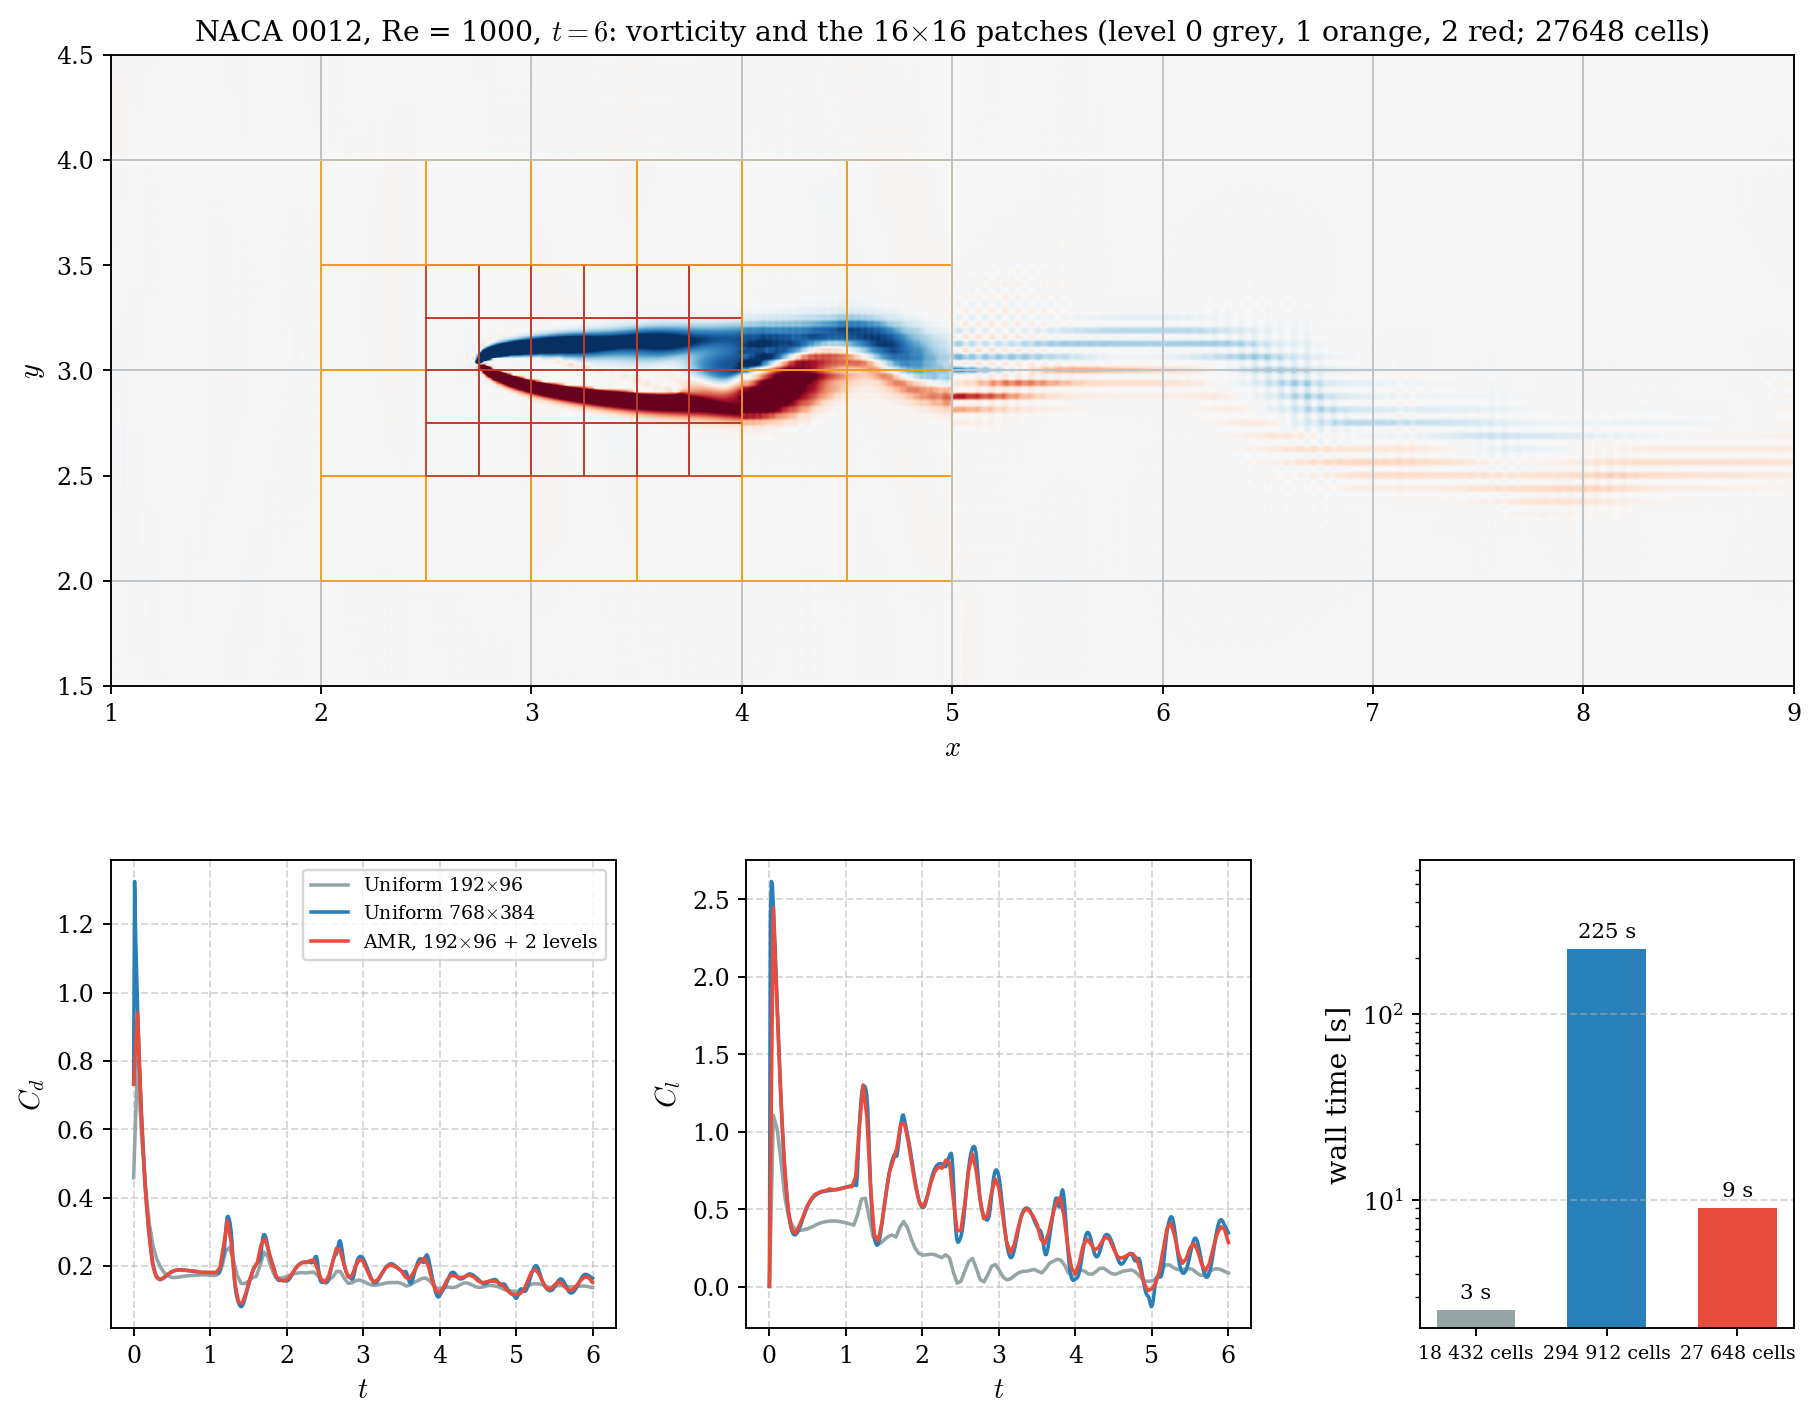
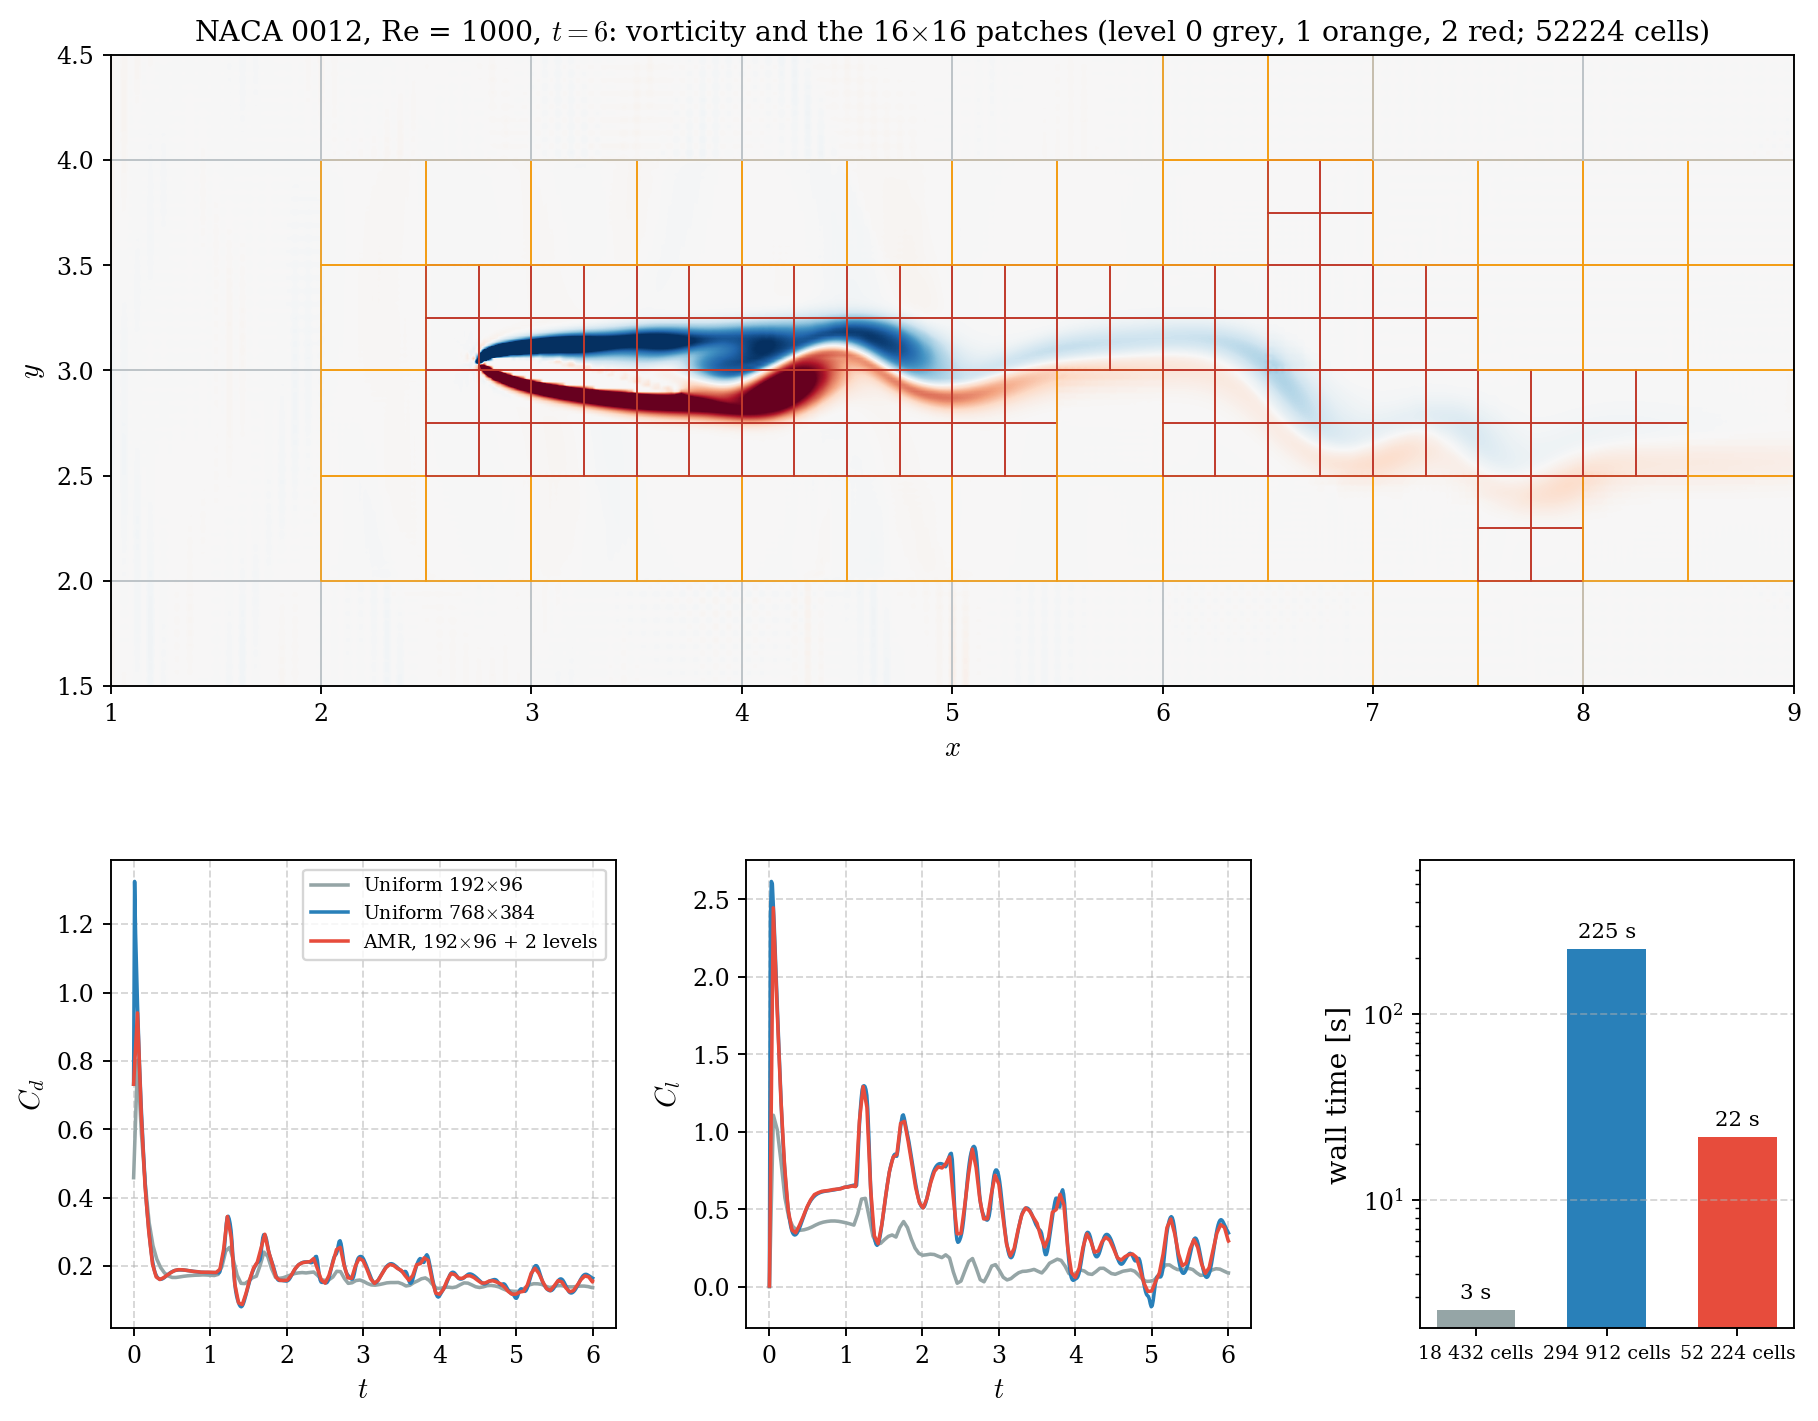
AMR: speed-based refinement indicator, so the airfoil wake is refined
Problem: the Lohner indicator looked at the density only. At Ma = 0.2 the density
hardly varies in the wake, so the refined patches followed the airfoil but not the
wake (visible in the airfoil_amr figure).

Solution: new parameter amr_indicator = density (default, unchanged results) |
velocity | density+velocity, the Lohner ratio of the density and / or the speed
(the larger of the enabled ones). The IBM Airfoil AMR case uses density+velocity.

Airfoil study (t = 6, rms difference of Cd(t), Cl(t) from the 768 x 384 run):
  AMR with the density indicator:           27 648 cells   9.1 s  Cd 0.009  Cl 0.048
  AMR with density+velocity (wake refined): 52 224 cells  22 s    Cd 0.007  Cl 0.036
  uniform 768 x 384: 294 912 cells, 225 s.
The airfoil page now ends with the AMR section followed by "Using your own airfoil",
the figure and table are regenerated, and a unit test checks that only the speed
indicator sees a shear layer of uniform density.

diff --git a/cpp/src/Params.cpp b/cpp/src/Params.cpp
@@ -116,7 +116,7 @@ Params baseline_defaults() {
         {"hot_start_src_nx", "0"}, {"hot_start_src_ny", "0"},
         {"use_amr", "false"}, {"amr_max_level", "2"}, {"amr_patch_nx", "8"}, {"amr_patch_ny", "8"},
         {"amr_refine_threshold", "0.3"}, {"amr_derefine_threshold", "0.1"},
-        {"amr_refine_every", "10"}, {"amr_init_levels", "0"}, {"amr_buffer_layers", "1"}, {"amr_refine_ibm", "true"},
+        {"amr_refine_every", "10"}, {"amr_init_levels", "0"}, {"amr_buffer_layers", "1"}, {"amr_refine_ibm", "true"}, {"amr_indicator", "density"},
         {"output_root", FV_PROJECT_ROOT "/results"}, {"dump_state", ""}, {"max_steps", "0"},
         {"monitor_interval", "0"}, {"vtk_format", "binary"},
     };
@@ -192,6 +192,7 @@ SimParams SimParams::from(const Params& p) {
     s.amr_init_levels   = p.integer("amr_init_levels", 0);
     s.amr_buffer_layers = p.integer("amr_buffer_layers", 1);
     s.amr_refine_ibm    = p.flag("amr_refine_ibm");
+    s.amr_indicator     = lower(p.str("amr_indicator", "density"));
     s.output_root    = p.str("output_root", "results");
     s.dump_state     = p.str("dump_state");
     s.max_steps      = p.integer("max_steps", 0);
@@ -206,6 +207,8 @@ SimParams SimParams::from(const Params& p) {
                                     "patches tile the mesh): nx = " + std::to_string(s.nx) + ", ny = " +
                                     std::to_string(s.ny) + ", patch " + std::to_string(s.amr_patch_nx) + " x " +
                                     std::to_string(s.amr_patch_ny));
+    if (s.amr_indicator != "density" && s.amr_indicator != "velocity" && s.amr_indicator != "density+velocity")
+        throw std::invalid_argument("amr_indicator must be density, velocity or density+velocity (got '" + s.amr_indicator + "')");
     if (s.use_amr) {
         const std::string ts = lower(s.time_scheme);
         if (ts == "bdf2 dual time" || ts == "bdf2")

diff --git a/cpp/src/AMR.cpp b/cpp/src/AMR.cpp
@@ -212,7 +212,10 @@ std::vector<AMRPatch*> AMRTree::neighbour_leaves(const AMRPatch* p, Face face) c
 // Lohner second-derivative error indicator
 // ---------------------------------------------------------------------------
 
-double AMRErrorIndicator::indicator(const AMRPatch& patch) const {
+namespace {
+// Lohner ratio of the scalar `value(cell)` over a patch
+template <class F>
+double lohner_eta(const AMRPatch& patch, F value) {
     const int nx = patch.nx(), ny = patch.ny();
     const int PW = nx + 2;
     // Anti-symmetric (odd) reflection: ghost = 2*edge - interior, so a linear
@@ -221,7 +224,7 @@ double AMRErrorIndicator::indicator(const AMRPatch& patch) const {
     double rho_max = 0.0;
     for (int j = 0; j < ny; ++j)
         for (int i = 0; i < nx; ++i) {
-            const double r = patch.U[j * nx + i][0];
+            const double r = value(patch.U[j * nx + i]);
             rp[(j + 1) * PW + i + 1] = r;
             rho_max = std::max(rho_max, std::abs(r));
         }
@@ -245,6 +248,17 @@ double AMRErrorIndicator::indicator(const AMRPatch& patch) const {
             const double f1y = std::abs(R(j + 1, i) - c) + std::abs(c - R(j - 1, i));
             eta = std::max(eta, std::sqrt(d2x * d2x + d2y * d2y) / (f1x + f1y + floor));
         }
+    return eta;
+}
+}  // namespace
+
+double AMRErrorIndicator::indicator(const AMRPatch& patch) const {
+    double eta = 0.0;
+    if (use_density) eta = lohner_eta(patch, [](const State& c) { return c[0]; });
+    if (use_speed)
+        eta = std::max(eta, lohner_eta(patch, [](const State& c) {
+            return std::sqrt(c[1] * c[1] + c[2] * c[2] + c[4] * c[4]) / c[0];
+        }));
     return eta;
 }
 

diff --git a/cpp/include/fv/AMR.hpp b/cpp/include/fv/AMR.hpp
@@ -104,13 +104,15 @@ public:
     AMRErrorIndicator(double refine_threshold = 0.3, double derefine_threshold = 0.1, int buffer_layers = 1)
         : refine_threshold(refine_threshold), derefine_threshold(derefine_threshold), buffer_layers(buffer_layers) {}
 
-    // eta = max over cells of |second difference| / (|first differences| + 0.01 max|rho|), in [0, 1].
+    // eta = max over cells of |second difference| / (|first differences| + 0.01 max|f|), in [0, 1], for
+    // f = density and / or the speed |u| (the largest of the enabled ones).
     double indicator(const AMRPatch& patch) const;
     // Leaves to refine (flagged + buffer, sorted by id) and parents to derefine.
     void   mark(AMRTree& tree, std::vector<AMRPatch*>& to_refine, std::vector<AMRPatch*>& to_derefine) const;
 
     double refine_threshold, derefine_threshold;   // eta thresholds
     int    buffer_layers;                          // halo rings around flagged patches
+    bool   use_density = true, use_speed = false;  // fields the ratio is taken of
     // Optional: leaves for which this is true are refined to max_level whatever eta says, and their
     // parents are never derefined (an immersed body kept at the finest level).
     std::function<bool(const AMRPatch&)> force_refine;

diff --git a/cpp/tests/test_main.cpp b/cpp/tests/test_main.cpp
@@ -558,6 +558,15 @@ TEST(amr_error_indicator) {
     for (int j = 0; j < 8; ++j)
         for (int i = 0; i < 8; ++i) tree.root->U[j * 8 + i][0] = i < 4 ? 1.0 : 0.125;
     CHECK(ind.indicator(*tree.root) > 0.3);     // discontinuity
+    // A shear layer: uniform density, speed jump. Only the speed indicator sees it.
+    const EOS eos = EOS::ideal(1.4);
+    for (int j = 0; j < 8; ++j)
+        for (int i = 0; i < 8; ++i) tree.root->U[j * 8 + i] = eos.prim_to_cons({1.0, i < 4 ? 0.0 : 1.0, 0.0, 1.0});
+    AMRErrorIndicator speed;
+    speed.use_density = false;
+    speed.use_speed = true;
+    CHECK(ind.indicator(*tree.root) < 1e-12);
+    CHECK(speed.indicator(*tree.root) > 0.3);
 }
 
 namespace {

diff --git a/cpp/src/Simulation.cpp b/cpp/src/Simulation.cpp
@@ -339,6 +339,8 @@ void Simulation::setup(const SimParams& params, bool verbose) {
                                              p.nx / p.amr_patch_nx, p.ny / p.amr_patch_ny);
         amr_indicator = std::make_unique<AMRErrorIndicator>(p.amr_refine_threshold, p.amr_derefine_threshold,
                                                             p.amr_buffer_layers);
+        amr_indicator->use_density = p.amr_indicator != "velocity";
+        amr_indicator->use_speed   = p.amr_indicator != "density";
         if (p.use_ibm && p.amr_refine_ibm)
             amr_indicator->force_refine = [this](const AMRPatch& patch) { return patch_touches_body(patch); };
         if (verbose)

diff --git a/cpp/src/CaseFile.cpp b/cpp/src/CaseFile.cpp
@@ -44,7 +44,7 @@ const std::vector<std::pair<std::string, std::vector<std::string>>>& section_tab
                  "ibm_aoa"}},
         {"hot_start", {"use_hot_start", "hot_start_file", "hot_start_src_nx", "hot_start_src_ny"}},
         {"amr", {"use_amr", "amr_max_level", "amr_patch_nx", "amr_patch_ny", "amr_refine_threshold",
-                 "amr_derefine_threshold", "amr_refine_every", "amr_init_levels", "amr_buffer_layers", "amr_refine_ibm"}},
+                 "amr_derefine_threshold", "amr_refine_every", "amr_init_levels", "amr_buffer_layers", "amr_refine_ibm", "amr_indicator"}},
     };
     return t;
 }

diff --git a/cpp/include/fv/Params.hpp b/cpp/include/fv/Params.hpp
@@ -83,6 +83,7 @@ struct SimParams {
     double amr_refine_threshold, amr_derefine_threshold;
     int    amr_refine_every, amr_init_levels, amr_buffer_layers;
     bool   amr_refine_ibm = true;   // keep the immersed body at the finest level
+    std::string amr_indicator = "density";   // fields of the refinement indicator: density, velocity, density+velocity
 
     // C++-only extras
     std::string output_root;   // parent of the per-case results folder

diff --git a/docs/source/cases/airfoil.md b/docs/source/cases/airfoil.md
@@ -18,12 +18,37 @@ build\release\fenice.exe --case "IBM Airfoil" --set "ibm_shape=NACA 4412" --set 
 python validation\ibm_loads.py airfoil                        # loads figure + mean coefficients
 ```
 
+## Loads
+
+With IBM on, every `monitor_interval` steps the monitor records $F_x$, $F_y$ and the
+coefficients $C_d$, $C_l$ and $C_m$ (about the quarter chord, nose-up positive), on the chord
+and $q = \tfrac12\rho_{\rm in}u_{\rm in}^2$. They are computed inside the solver from the
+momentum flux into the body, so they include pressure and friction; see
+[Loads on the body]({{root}}modules/Physics.html#loads-on-the-body).
+
+## Default parameters
+
+{{defaults:IBM Airfoil}}
+
+## Results
+
+<figure>
+<img src="{{root}}img/airfoil_loads.png" style="width:100%">
+<figcaption>NACA 0012 at 10°, Re = 1000, 720 × 360 cells. Top: vorticity at t = 20, with the
+shear layers rolling up into a vortex street. Bottom: lift, drag and moment coefficients;
+over t ≥ 10 (shaded) C<sub>l</sub> = 0.38 (between 0.26 and 0.51), C<sub>d</sub> = 0.17 and
+C<sub>m</sub> ≈ 0 about the quarter chord, as thin-airfoil theory predicts. The dominant lift
+frequency is f c/U ≈ 1.21.</figcaption>
+</figure>
+
 ## Adaptive mesh refinement
 
 The case `IBM Airfoil AMR` is the same flow on a 192×96 base mesh with
 [AMR]({{root}}modules/AMR.html): 16×16 patches, two refinement levels, the airfoil kept at the
-finest level (the resolution of a 768×384 mesh, chord = 64 cells) and the wake refined where
-the density has gradients.
+finest level (the resolution of a 768×384 mesh, chord = 64 cells) and the wake followed by the
+indicator: `amr_indicator = "density+velocity"` takes the Löhner ratio of the speed as well as of the
+density, because at Ma = 0.2 the density hardly varies in the wake (the default, density only, would
+leave it coarse).
 
 ```powershell
 build\release\fenice.exe --case "IBM Airfoil AMR"        # OpenMP threads; writes Cl, Cd, Cm like the uniform case
@@ -33,7 +58,7 @@ python validation\airfoil_amr.py --docs                  # AMR against uniform 1
 <figure style="margin:1em 0;">
 <img src="{{root}}img/airfoil_amr.png" style="width:100%">
 <figcaption>NACA 0012 at 10°, Re = 1000, up to $t = 6$ (<code>validation/airfoil_amr.py</code>).
-Top: vorticity with the patches of the AMR run. Bottom: drag and lift of the AMR run and of
+Top: vorticity with the patches of the AMR run, which follow the airfoil and the wake. Bottom: drag and lift of the AMR run and of
 uniform 192×96 and 768×384 meshes, and the cost of the three runs on 16 OpenMP threads.</figcaption>
 </figure>
 
@@ -41,11 +66,11 @@ uniform 192×96 and 768×384 meshes, and the cost of the three runs on 16 OpenMP
 |---|---:|---:|---:|---:|
 | uniform 192×96 | 18 432 | 2.5 s | 0.034 | 0.35 |
 | uniform 768×384 | 294 912 | 225 s | (reference) | (reference) |
-| AMR, 192×96 + 2 levels | 27 648 | 9.1 s | 0.009 | 0.048 |
+| AMR, 192×96 + 2 levels | 52 224 | 22 s | 0.007 | 0.036 |
 
 The errors are rms differences of $C_d(t)$ and $C_l(t)$ from the 768×384 run over
 $1 \le t \le 6$ (this is the impulsive start of the flow, not a statistically steady state).
-AMR reproduces the loads of the fine mesh with 9 % of its cells and 4 % of its time. The
+AMR reproduces the loads of the fine mesh with 18 % of its cells and 10 % of its time. The
 base mesh alone misses most of the lift.
 
 ## Using your own airfoil
@@ -69,26 +94,3 @@ physical; at airliner Reynolds numbers (10⁵ and above) a 2-D laminar run is an
 unmodelled flow, not a prediction. The staircase IBM also places the wall only to within half
 a cell, so the thin trailing edge needs a fine grid: the default resolves the chord with 60
 cells.
-
-## Loads
-
-With IBM on, every `monitor_interval` steps the monitor records $F_x$, $F_y$ and the
-coefficients $C_d$, $C_l$ and $C_m$ (about the quarter chord, nose-up positive), on the chord
-and $q = \tfrac12\rho_{\rm in}u_{\rm in}^2$. They are computed inside the solver from the
-momentum flux into the body, so they include pressure and friction; see
-[Loads on the body]({{root}}modules/Physics.html#loads-on-the-body).
-
-## Default parameters
-
-{{defaults:IBM Airfoil}}
-
-## Results
-
-<figure>
-<img src="{{root}}img/airfoil_loads.png" style="width:100%">
-<figcaption>NACA 0012 at 10°, Re = 1000, 720 × 360 cells. Top: vorticity at t = 20, with the
-shear layers rolling up into a vortex street. Bottom: lift, drag and moment coefficients;
-over t ≥ 10 (shaded) C<sub>l</sub> = 0.38 (between 0.26 and 0.51), C<sub>d</sub> = 0.17 and
-C<sub>m</sub> ≈ 0 about the quarter chord, as thin-airfoil theory predicts. The dominant lift
-frequency is f c/U ≈ 1.21.</figcaption>
-</figure>

diff --git a/docs/source/modules/AMR.md b/docs/source/modules/AMR.md
@@ -104,7 +104,8 @@ interpolated in time.
 ## Error indicator and marking
 
 The Löhner (1987) second-derivative sensor is the ratio of second to first density
-differences:
+differences (`amr_indicator = density`, the default; `velocity` takes the speed instead and
+`density+velocity` the larger of the two, which is needed for a nearly incompressible wake):
 
 $$\eta = \max_{\rm cells}\frac{\sqrt{(\Delta^2_x\rho)^2 + (\Delta^2_y\rho)^2}}
   {|\Delta^+_x\rho| + |\Delta^-_x\rho| + |\Delta^+_y\rho| + |\Delta^-_y\rho| + \varepsilon\,\rho_{\max}}$$
@@ -128,9 +129,9 @@ give $\eta = 0$.
 
 ## Immersed boundary, viscous terms and body force
 
-The [airfoil]({{root}}cases/airfoil.html#adaptive-mesh-refinement) case shows it: with 9 % of
+The [airfoil]({{root}}cases/airfoil.html#adaptive-mesh-refinement) case shows it: with 18 % of
 the cells of the uniform mesh at the body's resolution, AMR gives the same drag and lift
-history in 4 % of the time.
+history in 10 % of the time.
 
 The leaf residual `patch_residual` adds, when enabled, the viscous flux, a body force and
 the immersed-boundary forcing to the convective flux. Each leaf builds its solid mask,

diff --git a/docs/source/guide/parameters.md b/docs/source/guide/parameters.md
@@ -127,5 +127,6 @@ The OpenMP thread count is set with `--threads` or `OMP_NUM_THREADS`.
 | `amr_init_levels` | `0` | Uniform pre-refinement levels at t = 0 |
 | `amr_buffer_layers` | `1` | Rings of neighbours refined around flagged patches |
 | `amr_refine_ibm` | `true` | With `use_ibm`: leaves whose box (grown by one cell) overlaps the body's bounding box are refined to `amr_max_level` from t = 0 and never coarsened |
+| `amr_indicator` | `density` | Field of the Löhner refinement indicator: `density`, `velocity` (the speed) or `density+velocity` (the larger of the two). Use the speed for vortical, nearly incompressible flow such as a wake, where the density hardly varies |
 
 {{api}}
